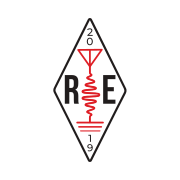
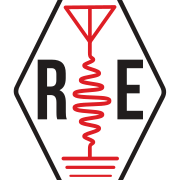
Aproximar o ícone do separador ao «RE»
A marca inteira ocupa 41% da largura do quadrado, porque o losango é 1:2.
Aos 16 e 32 px o «RE» fica com 2,5 px de altura e não se lê nada. Ampliada
2,08× em torno das letras, lê-se aos 32.

O 2,08 é uma janela, não um número a olho. Abaixo de 2,04 sobra um pedaço
de dígito à vista, que se lê como defeito e não como enquadramento; acima
de 2,13 começa a cortar a antena e as linhas de terra, que são o sinal.
Entre os dois só cabe um valor. Verificado caminho a caminho: os quatro
dígitos do «2019» saem inteiros (três estão num caminho, o «9» está no das
letras), e antena, resistência e as três terras ficam completas.

É um <g transform> com um clipPath da forma do quadrado, não uma edição do
desenho — os onze caminhos continuam lá inteiros, e o clip é o que impede
a marca ampliada de pintar por cima dos cantos redondos.

Só o separador e o ecrã inicial. Os public/icons/ ficam com a marca
completa: aos 192 e 512 px não há nada a ganhar e perdia-se o «2019». O
icon-maskable não podia levar isto de todo — limpar os dígitos exigia
2,66× e acima de 2,25× a antena sai da zona segura do Android, portanto
não há janela nenhuma. app/icon.svg e public/icons/icon.svg deixam assim
de ser o mesmo ficheiro.

Changed region(s): [[0.0556, 0.0, 0.9444, 1.0]]

diff --git a/docs/brand/README.md b/docs/brand/README.md
@@ -31,7 +31,7 @@ apenas dentro do losango.
 | `public/logo/mark-on-dark.svg` | losango, tinta branca (fundos escuros) |
 | `public/logo/mark-mono.svg` | losango a uma cor só |
 | `public/logo/lockup.svg` | losango + «RÁDIO ESCOLA» na horizontal |
-| `app/icon.svg`, `app/favicon.ico`, `app/apple-icon.png` | ícones do separador e do iOS |
+| `app/icon.svg`, `app/favicon.ico`, `app/apple-icon.png` | ícones do separador e do iOS — **cortados**, ver abaixo |
 | `public/icons/icon*.svg`, `public/icons/icon*.png` | ícones da PWA, referidos pelo `manifest.webmanifest` |
 
 `LogoMark.tsx` e `LogoWordmark.tsx` são as cópias embutidas, e são as que a
@@ -68,6 +68,29 @@ filete à volta do quadrado, e isso já é mexer na marca.
 Quando se troca o fundo troca-se a tinta com ele, pela tabela de cores acima:
 losango, letras e «2019» a `#211d1d` sobre claro, a `#ffffff` sobre escuro. Os
 dois vermelhos do sinal não mudam em nenhuma das variantes.
+
+## O ícone do separador é cortado; os da PWA não
+
+`app/icon.svg`, `app/favicon.ico` e `app/apple-icon.png` levam a marca ampliada
+2,08× em torno do «RE», com as pontas do losango a correr para fora do quadrado
+e sem o «2019». A 16 e 32 px a marca inteira não tem hipótese — ocupa 41% da
+largura do quadrado e o «RE» fica com 2,5 px de altura; ampliada, lê-se.
+
+**O 2,08 não é um número escolhido a olho, é uma janela.** Abaixo de 2,04 sobra
+um pedaço de dígito à vista, que se lê como defeito e não como enquadramento;
+acima de 2,13 começa a cortar-se a antena e as linhas de terra, que são o
+sinal. Entre os dois há folga para um valor só. Se a marca mudar, remede-se.
+
+O corte é um `<g transform>` com um `clipPath` da forma do quadrado, não uma
+edição do desenho: os onze caminhos continuam lá, inteiros, e o clip é o que
+impede a marca ampliada de pintar por cima dos cantos redondos.
+
+**Os ícones em `public/icons/` ficam com a marca completa**, e por isso
+`app/icon.svg` e `public/icons/icon.svg` deixaram de ser o mesmo ficheiro. Aos
+192 e 512 px não há nada a ganhar com o corte e perder-se-ia o «2019». O
+`icon-maskable` não podia levá-lo de todo: para limpar os dígitos era preciso
+2,66×, e acima de 2,25× a antena e as terras saem da zona segura de 80% que o
+Android garante — não há janela nenhuma.
 
 Pela mesma razão, na barra de navegação o losango precisa de mais altura do que
 um ícone normal (`h-10` numa barra `h-14`): a `h-8` o interior — o «RE», o
